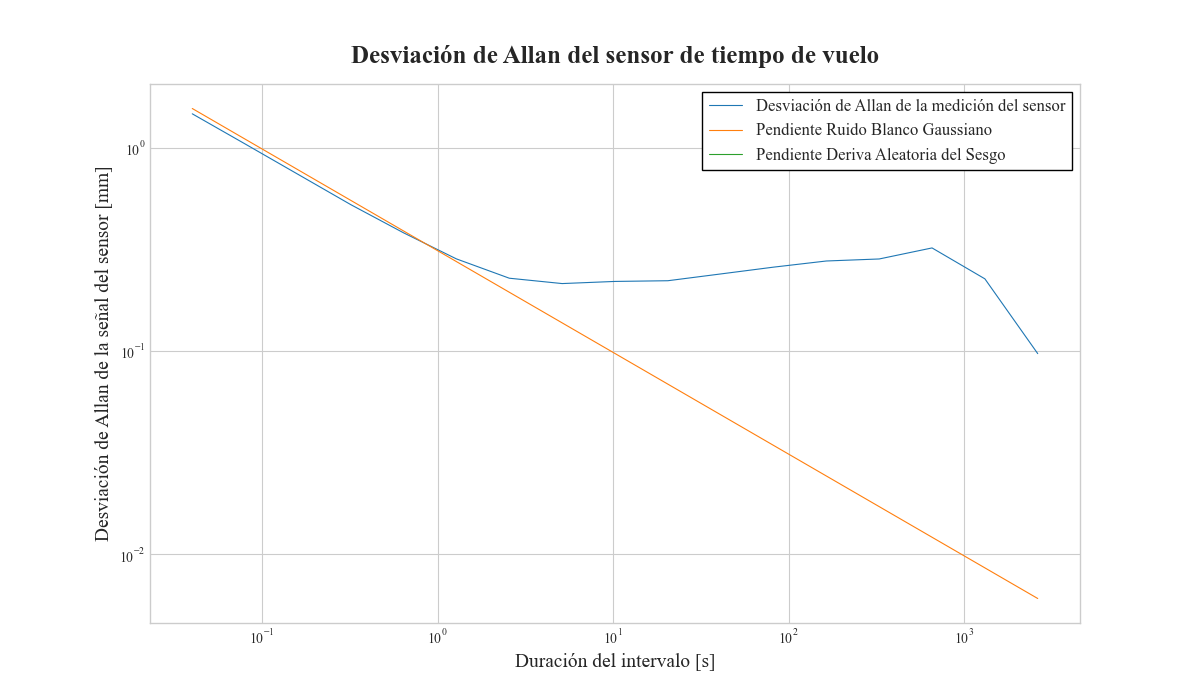
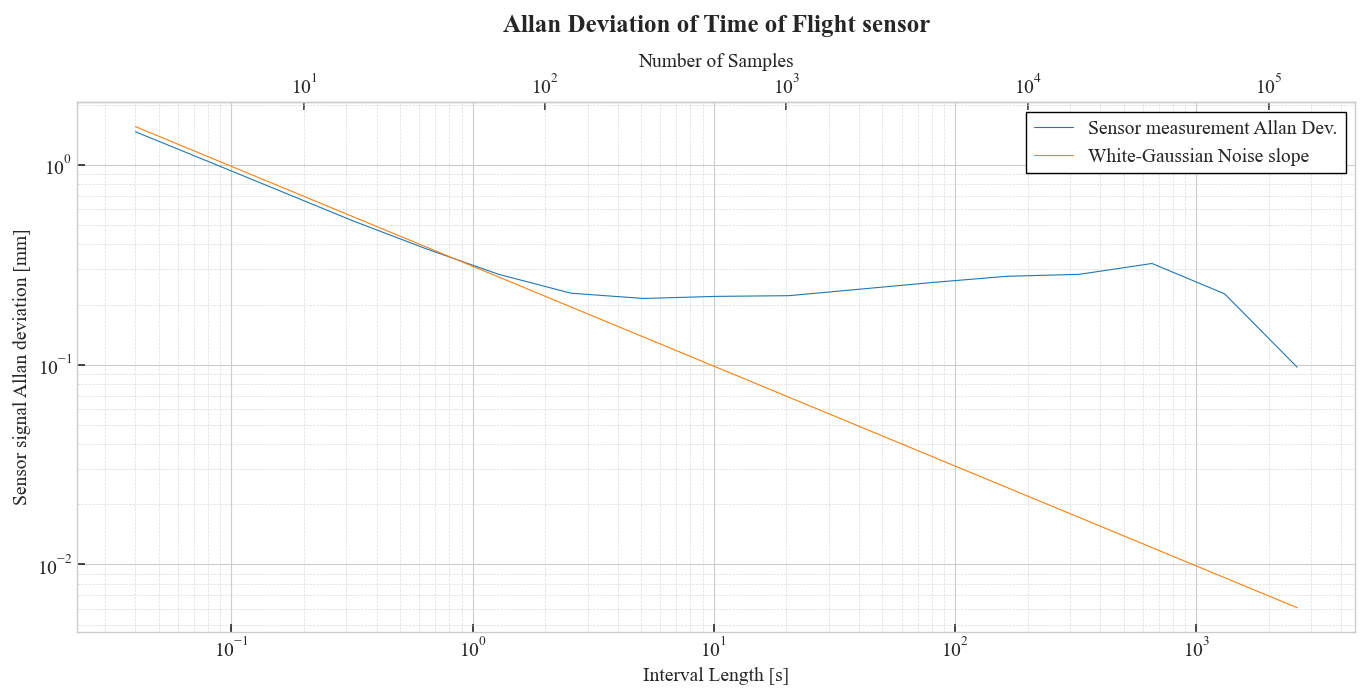
Plots update again.

diff --git a/TimeOfFlightCalibrationModules/utils.py b/TimeOfFlightCalibrationModules/utils.py
@@ -183,39 +183,61 @@ def extract_tof_distance_data(
 def show_loglog_data(
     x_data: np.ndarray,
     y_data: np.ndarray, 
+    fs: Union[int,float],
     legend: str,
     xlabel: str,
     ylabel: str,
     title: str,
+    spanish: bool=False
 ) -> None:
     """
     Show data plot in double logaritmic axes.
 
     Args:
-        x_data: X data plot.
-        y_data: Y data plot.
+        x_data: Data array of shape (N,M) where N is number of samples and M the numer of curves.
+        y_data: Data array of shape (N,M) where N is number of samples and M the numer of curves.
+        fs: Sampling rate in Hz.
         legend: Data legend.
         xlabel: X axis label.
         ylabel: Y axis label.
         title: Figure title.
+        spanish: Spanish comments.
 
     Returns:
         None
     """
 
     # Visualization
-    _, ax1 = plt.subplots(figsize=(12, 7))
+    _, ax1 = plt.subplots(figsize=(14, 7))
+
+    def tau_to_samples(tau):
+        return tau * fs
+
+    def samples_to_tau(N):
+        return N / fs
+
     lines = ax1.loglog(x_data, y_data, linewidth=0.8)
     for line, label in zip(lines, legend):
         line.set_label(label)
-    ax1.grid(True)
+    ax1.grid(True, which='major', linestyle='-', linewidth=0.8)
+    ax1.grid(True, which='minor', linestyle='--', linewidth=0.5, alpha=0.7)
     ax1.set_xlabel(xlabel, fontsize=14)
     ax1.set_ylabel(ylabel, fontsize=14)
     ax1.set_title(title, fontsize=18, fontweight='bold', pad=15)
+    secax = ax1.secondary_xaxis(
+        'top',
+        functions=(tau_to_samples, samples_to_tau)
+    )
+
+    if spanish:
+        secax_label = "Número de muestras"
+    else:
+        secax_label = "Number of Samples"
+    secax.set_xlabel(secax_label, fontsize=14)
     handles, _ = ax1.get_legend_handles_labels()
     ax1.legend(
         handles=handles,
-        fontsize=12,
+        fontsize=14,
         loc="best",
         frameon=True,        
         fancybox=False,     
@@ -223,7 +245,23 @@ def show_loglog_data(
         edgecolor='black',  
         facecolor='white'   
     )
-
+    secax.tick_params(
+        axis='x',
+        which='major',
+        direction='in',
+        length=6,
+        width=1.2,
+        labelsize=14
+    )
+    ax1.tick_params(
+        axis='both',
+        which='major',
+        direction='in',
+        length=6,
+        width=1.2,
+        labelsize=14
+    )
+    plt.tight_layout()
     plt.show()
 
 def show_time_data(
@@ -254,7 +292,7 @@ def show_time_data(
     time_vector = np.arange(0, n_samples, 1) / fs
 
     _, ax1 = plt.subplots(figsize=(12, 7))
-    lines = ax1.plot(time_vector, data, linewidth=0.8)
+    lines = ax1.plot(time_vector, data, linewidth=1)
     for line, label in zip(lines, legend):
         line.set_label(label)
     ax1.grid(True)
@@ -272,6 +310,14 @@ def show_time_data(
         framealpha=1.0,      
         edgecolor='black',  
         facecolor='white'   
+    )
+    ax1.tick_params(
+        axis='both',
+        which='major',
+        direction='in',
+        length=6,
+        width=1.2,
+        labelsize=14
     )
 
     plt.show()

diff --git a/TimeOfFlightCalibrationModules/tof_distance_calibration.py b/TimeOfFlightCalibrationModules/tof_distance_calibration.py
@@ -221,16 +221,44 @@ def auto_estimate_R_q_from_allan(
         q, tau_rw = np.nan, None
 
     if plot:
+        curves = [sigma]
+        legends = []
+
         if spanish:
-            plot_legend = ["Desviación de Allan de la medición del sensor","Pendiente Ruido Blanco Gaussiano","Pendiente Deriva Aleatoria del Sesgo"]
-            plot_xlabel = "Duración del intervalo [s]"
-            plot_ylabel = f"Desviación de Allan de la señal del sensor [{u}]"
-        else:   
-            plot_legend = ["Sensor measurement Allan Dev.","White-Gaussian Noise slope","Random-Walk bias slope"]
-            plot_xlabel = "Interval Length [s]"
-            plot_ylabel = f"Sensor signal Allan deviation [{u}]"
-        utils.show_loglog_data(tau, np.vstack([sigma,np.sqrt(R/fs)/np.sqrt(tau),np.sqrt(q/3)*np.sqrt(tau)]).T, 
-                               legend=plot_legend, xlabel=plot_xlabel, ylabel=plot_ylabel, title=title)
+            legends.append("Desviación de Allan de la medición del sensor")
+            xlabel = "Duración del intervalo [s]"
+            ylabel = f"Desviación de Allan de la señal del sensor [{u}]"
+        else:
+            legends.append("Sensor measurement Allan Dev.")
+            xlabel = "Interval Length [s]"
+            ylabel = f"Sensor signal Allan deviation [{u}]"
+
+        # White noise
+        if not np.isnan(R):
+            curves.append(np.sqrt(R/fs)/np.sqrt(tau))
+            if spanish:
+                legends.append("Pendiente Ruido Blanco Gaussiano")
+            else:
+                legends.append("White-Gaussian Noise slope")
+
+        # Random walk
+        if not np.isnan(q):
+            curves.append(np.sqrt(q/3)*np.sqrt(tau))
+            if spanish:
+                legends.append("Pendiente Deriva Aleatoria del Sesgo")
+            else:
+                legends.append("Random-Walk bias slope")
+
+        utils.show_loglog_data(
+            tau,
+            np.vstack(curves).T,
+            fs=fs,
+            legend=legends,
+            xlabel=xlabel,
+            ylabel=ylabel,
+            title=title,
+            spanish=spanish
+        )
 
     return R, q, tau_white, tau_rw
 

diff --git a/CalibrationTests/test_signal_characterization.py b/CalibrationTests/test_signal_characterization.py
@@ -8,7 +8,7 @@ import numpy as np
 from TimeOfFlightCalibrationModules import tof_distance_calibration as tof
 from TimeOfFlightCalibrationModules.utils import extract_tof_distance_data, show_time_data
 
-spanish = True
+spanish = False
 
 # Use synthetic data
 synthetic = False
